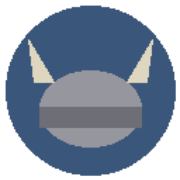
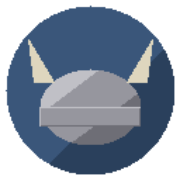
Update web export: re-skinned M1 art

diff --git a/index.html b/index.html
@@ -111,7 +111,7 @@ body {
 
 		<script src="index.js"></script>
 		<script>
-const GODOT_CONFIG = {"args":[],"canvasResizePolicy":2,"emscriptenPoolSize":8,"ensureCrossOriginIsolationHeaders":true,"executable":"index","experimentalVK":false,"fileSizes":{"index.pck":35188,"index.wasm":39513091},"focusCanvas":true,"gdextensionLibs":[],"godotPoolSize":4};
+const GODOT_CONFIG = {"args":[],"canvasResizePolicy":2,"emscriptenPoolSize":8,"ensureCrossOriginIsolationHeaders":true,"executable":"index","experimentalVK":false,"fileSizes":{"index.pck":35476,"index.wasm":39513091},"focusCanvas":true,"gdextensionLibs":[],"godotPoolSize":4};
 const GODOT_THREADS_ENABLED = false;
 const engine = new Engine(GODOT_CONFIG);
 
